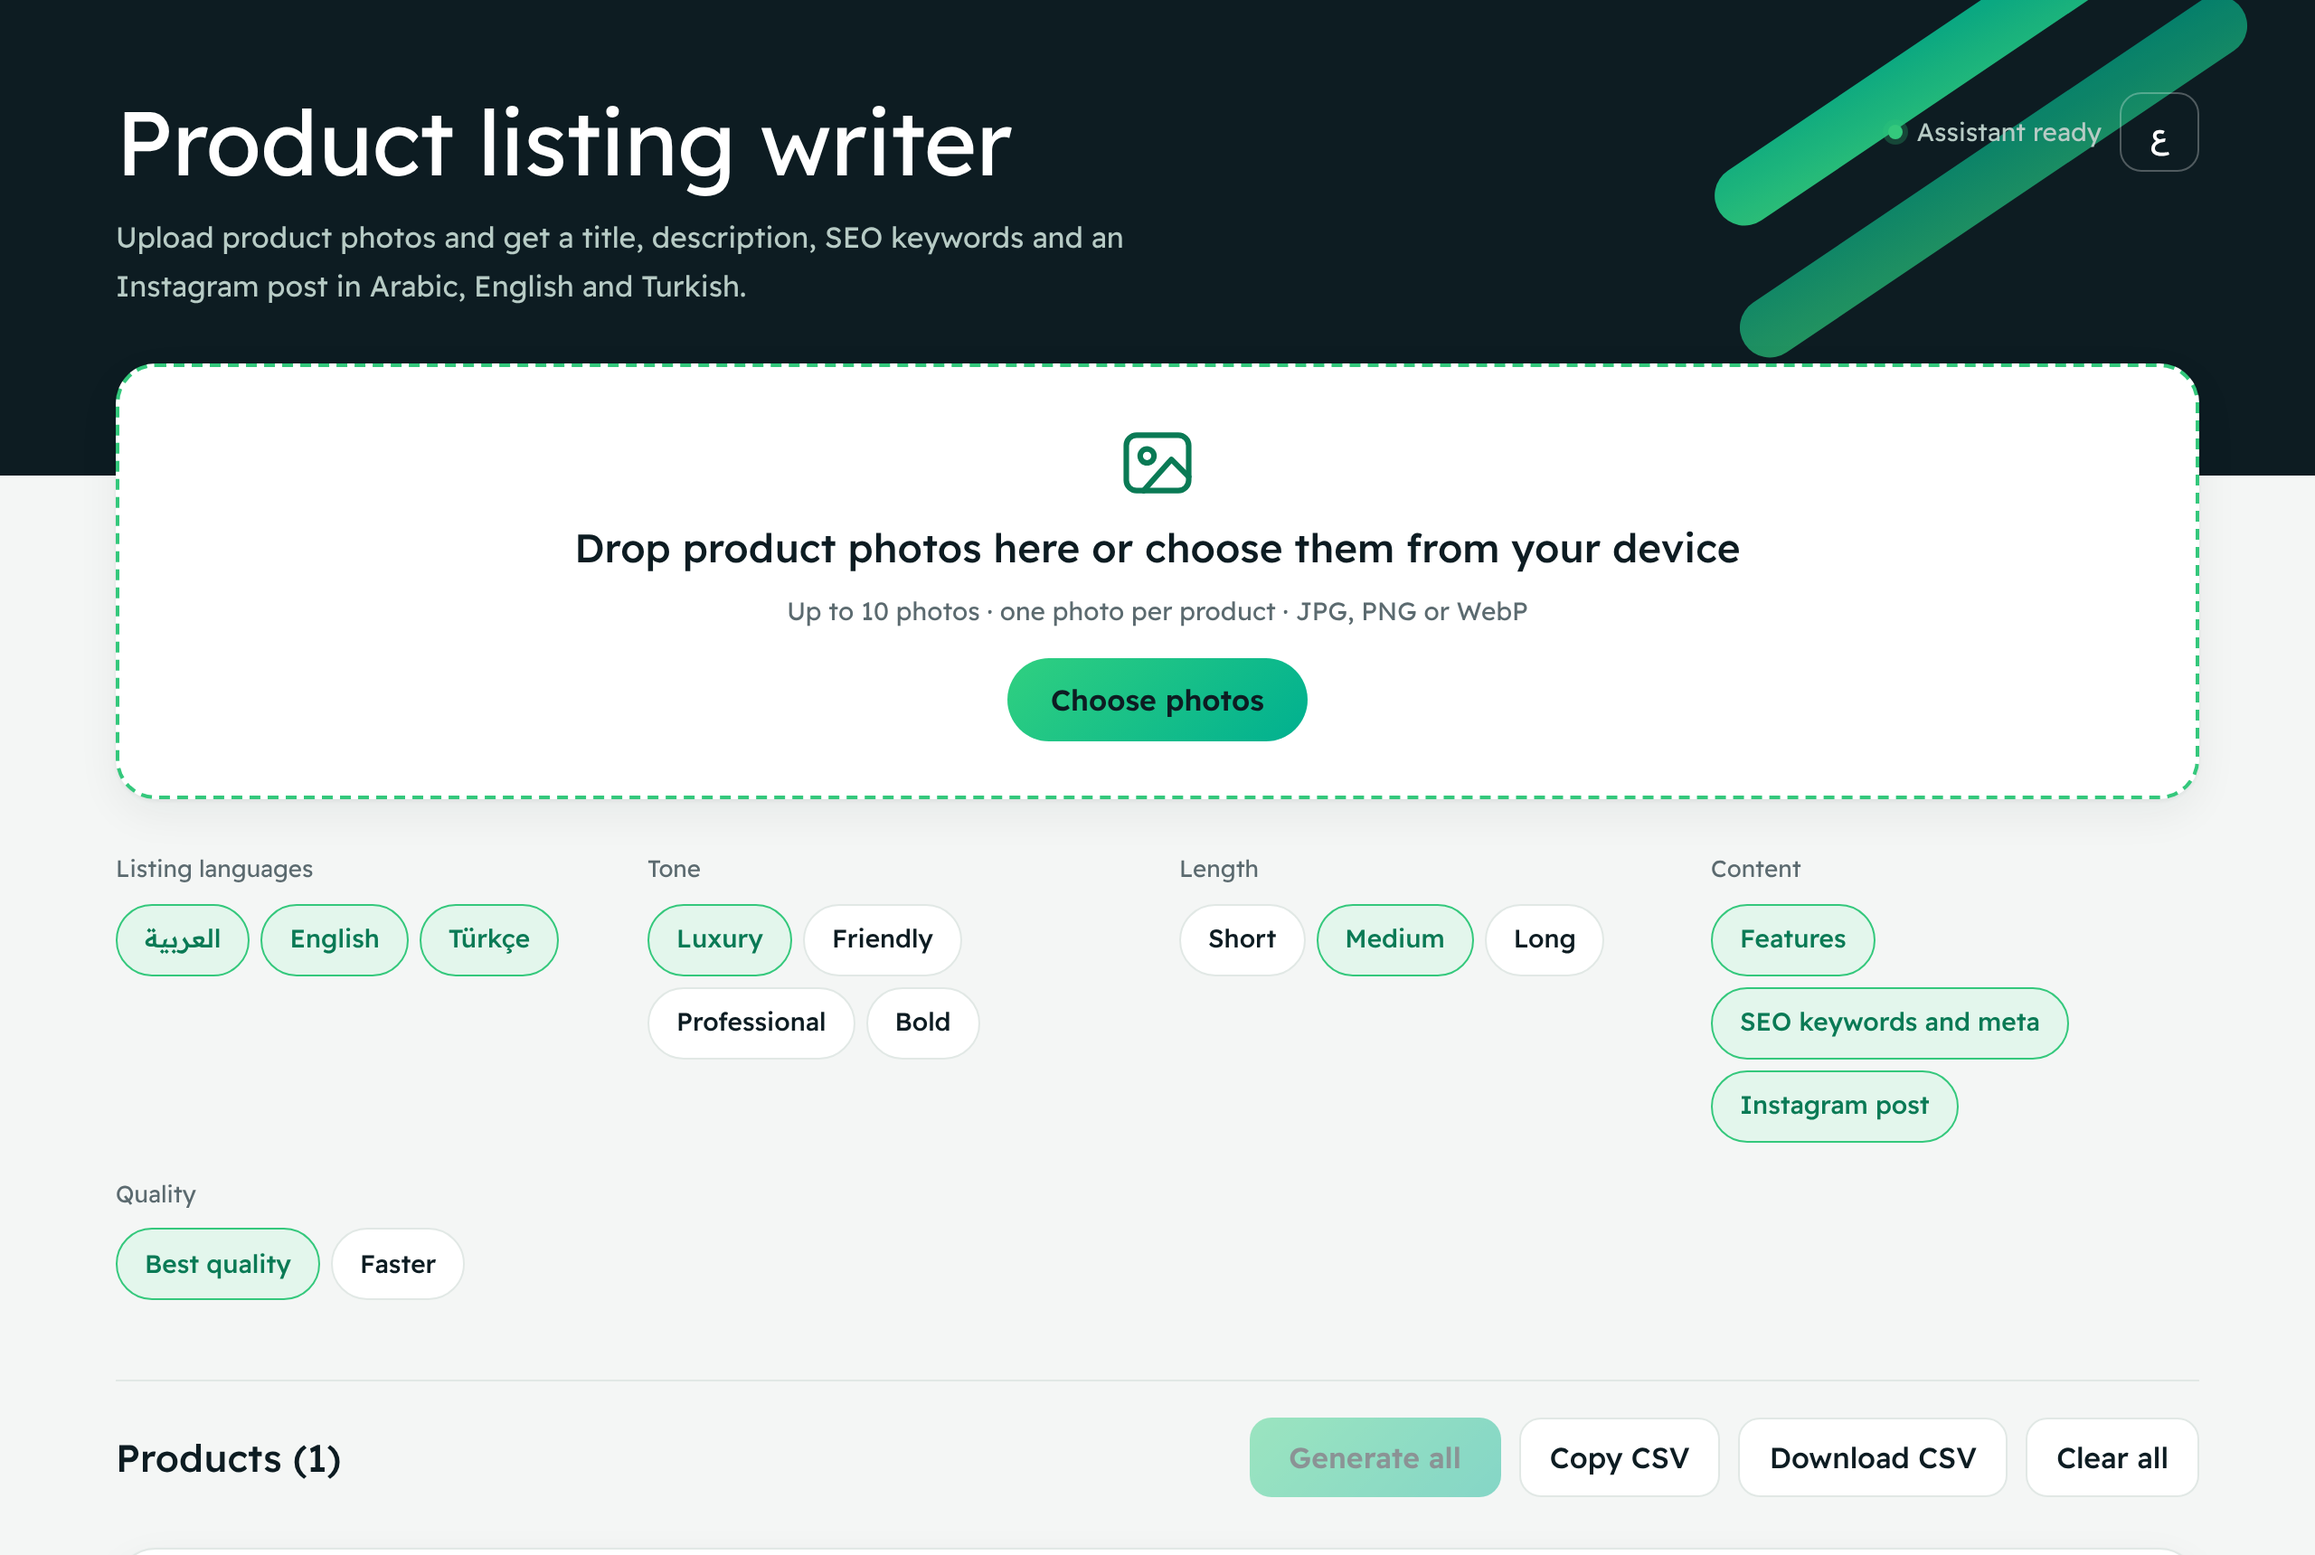
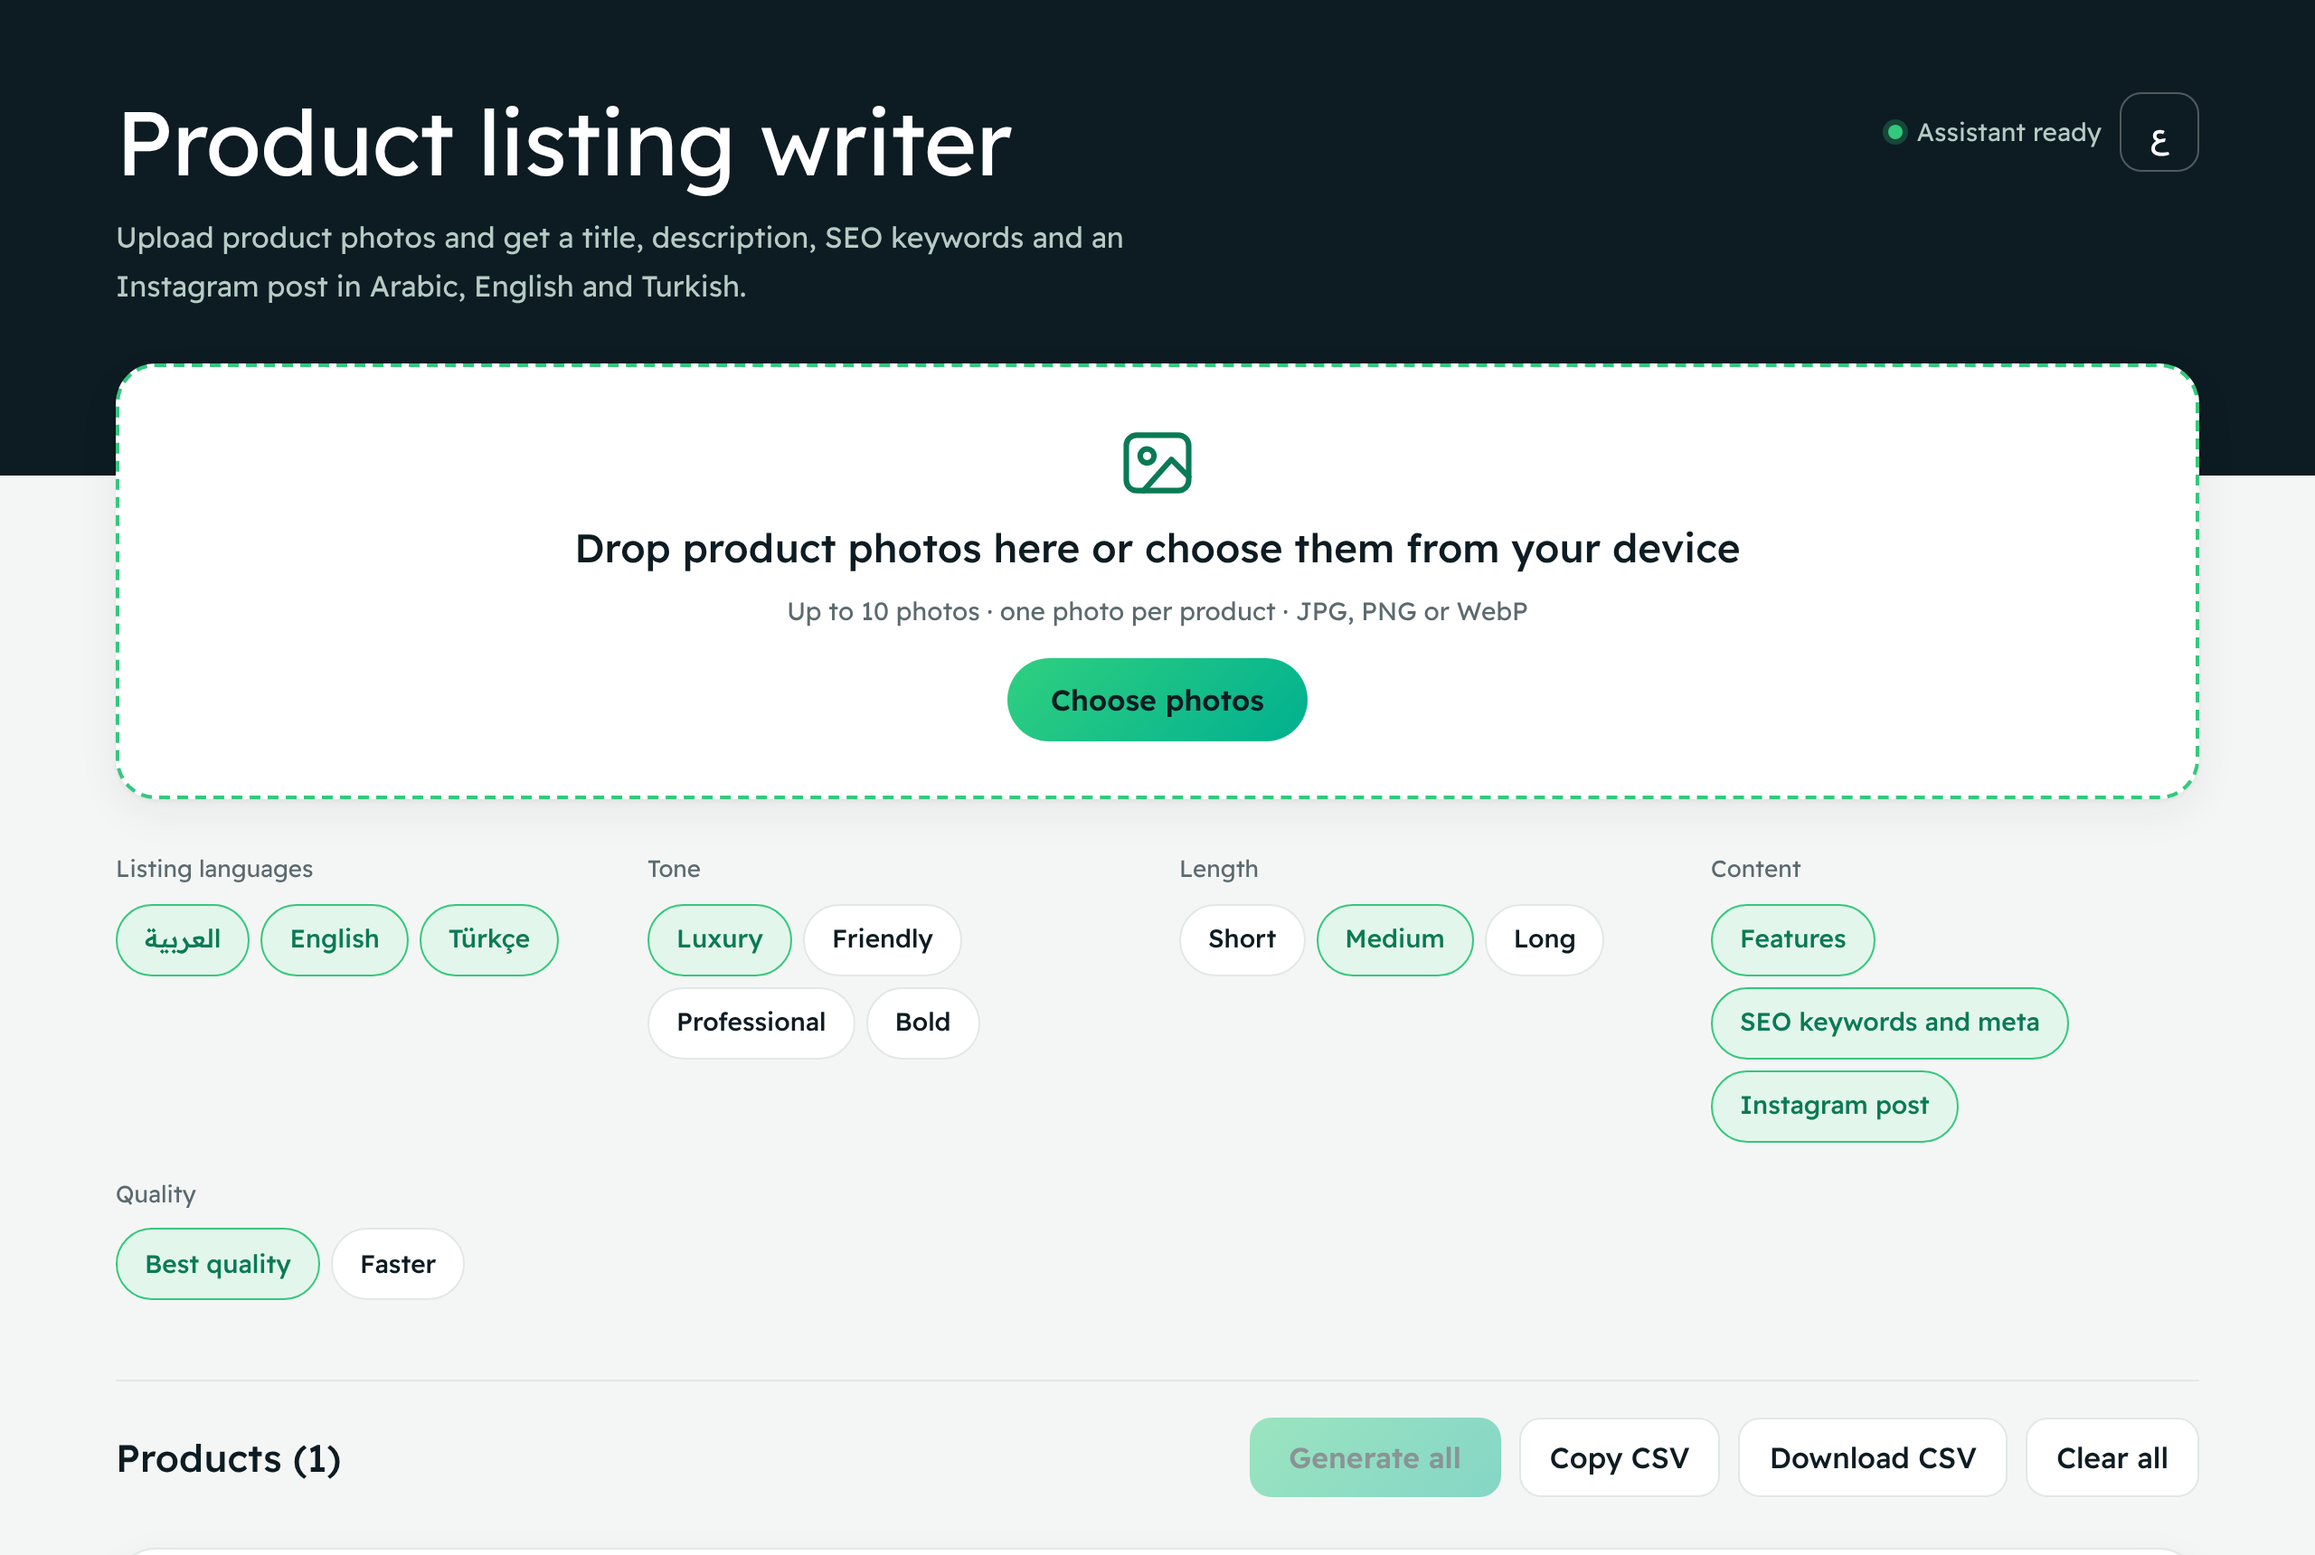
Remove the green stripes from the header
Deletes the decorative stripes graphic, its CSS and the design note that mentioned it, and updates the desktop screenshot in the README.

Changed region(s): [[0.7188, 0.0, 0.9688, 0.2465]]

diff --git a/index.html b/index.html
@@ -29,7 +29,7 @@
 <style>
 /* VOICE work tool, calm and exact, for people who sell online; dressed in HELA Tech's brand
    IDEA a listing proof sheet: each product is a plate with its photo beside its finished listing
-   PICTURE the uploaded product photos beside their live listings; slanted green ribbons from the HELA mark in the header
+   PICTURE the uploaded product photos beside their live listings
    COLOUR HELA green #34c87c to teal #00b090, dark teal-black #0d1c22, white cards on light grey #f4f6f5, a touch of orange #ff5e13
    TYPE Readex Pro throughout, a free stand-in for DIN Next Arabic
    LAYOUT dark header band, drop card overlapping its edge, settings, then product plates; phone: everything stacks, photo above its listing */
@@ -49,8 +49,6 @@ button:active{transform:scale(.97)}
 .band{padding-block:clamp(22px,3.5vw,44px);padding-left:max(5vw,16px);padding-right:max(5vw,16px)}
 .wrap{max-width:1180px;margin:0 auto;position:relative}
 .hero{position:relative;overflow:hidden;background:var(--dark);color:#fff;padding:clamp(28px,4vw,52px) max(5vw,16px) 92px}
-.motif{position:absolute;top:-30px;inset-inline-end:-40px;width:clamp(220px,32vw,420px);height:auto;opacity:.95;pointer-events:none}
-@media(max-width:600px){.motif{width:200px;opacity:.35}}
 .hd{display:flex;justify-content:space-between;align-items:flex-start;gap:16px;flex-wrap:wrap}
 h1{font-weight:400;font-size:clamp(32px,5vw,50px);line-height:1.1;letter-spacing:-.01em;margin:0;text-wrap:balance}
 .lead{color:#b7cbc5;margin:12px 0 0;max-width:60ch}
@@ -137,7 +135,6 @@ h1{font-weight:400;font-size:clamp(32px,5vw,50px);line-height:1.1;letter-spacing
 </head>
 <body>
 <header class="hero">
-  <svg class="motif" viewBox="0 0 420 300" aria-hidden="true"><defs><linearGradient id="hg" x1="0" y1="1" x2="1" y2="0"><stop offset="0" stop-color="#30d080"/><stop offset="1" stop-color="#00b090"/></linearGradient></defs><g fill="url(#hg)" transform="rotate(-34 210 150)"><rect x="70" y="40" width="300" height="34" rx="17" opacity=".95"/><rect x="40" y="110" width="340" height="34" rx="17" opacity=".7"/></g></svg>
   <div class="wrap hd">
     <div>
       <h1 id="h1">كاتب أوصاف المنتجات</h1>
